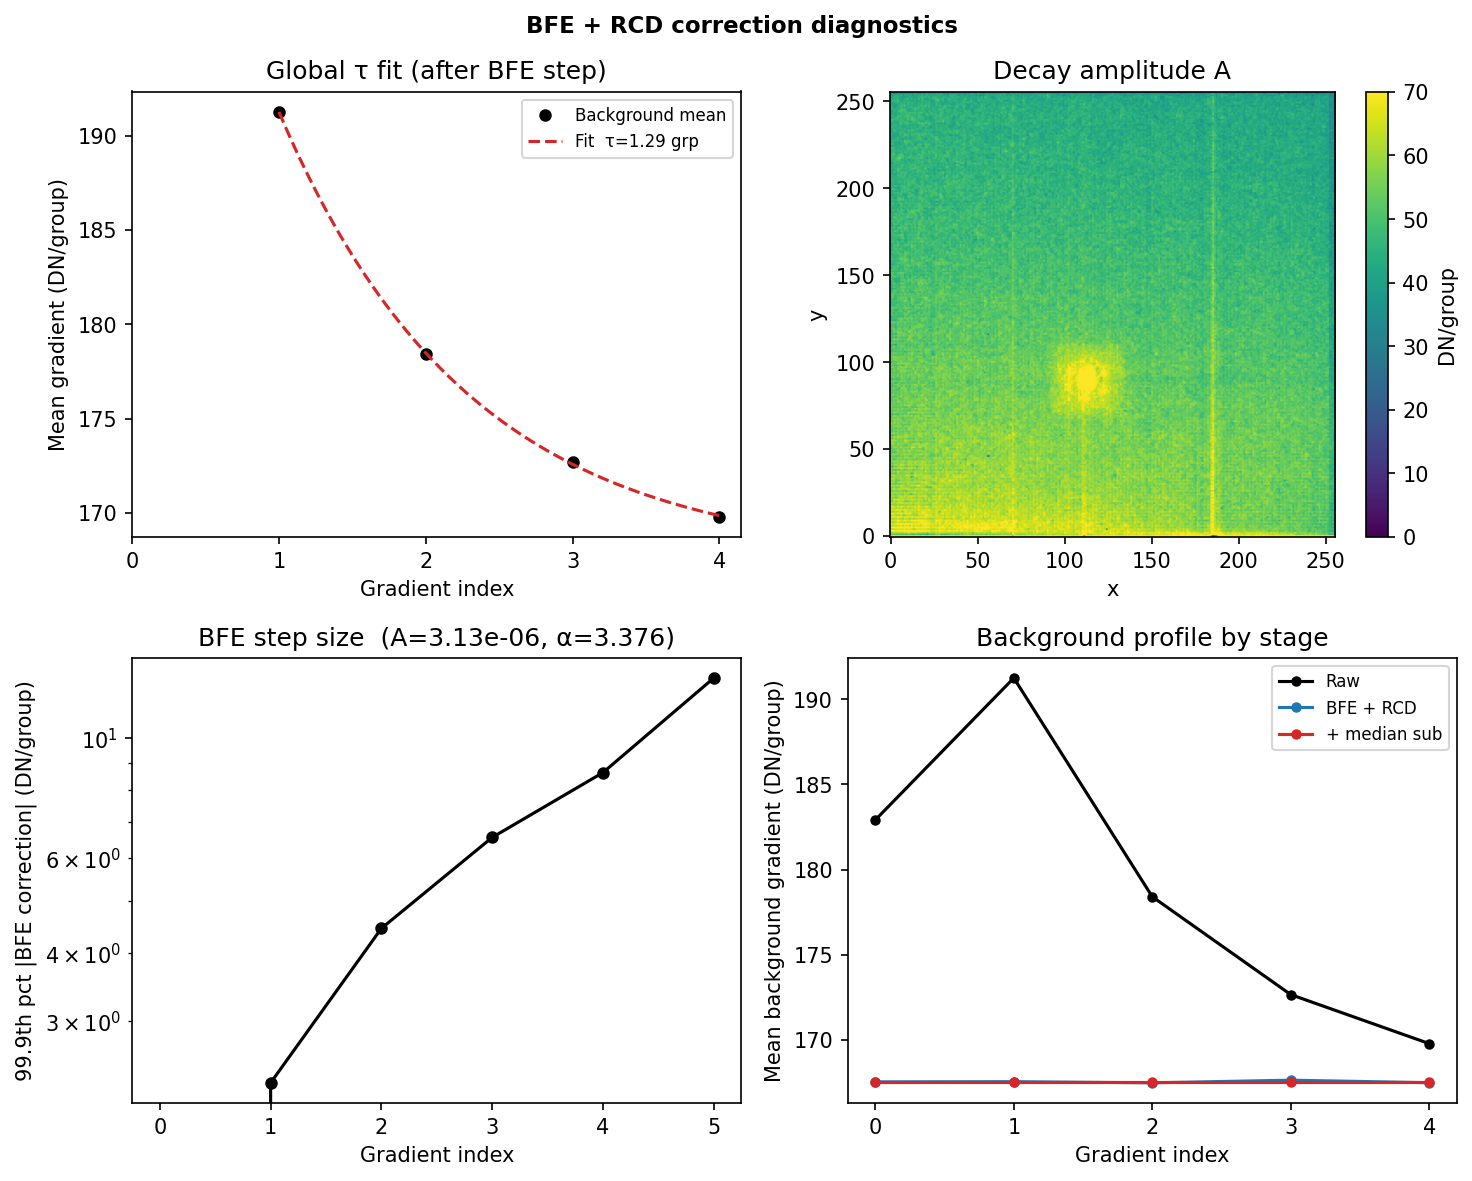
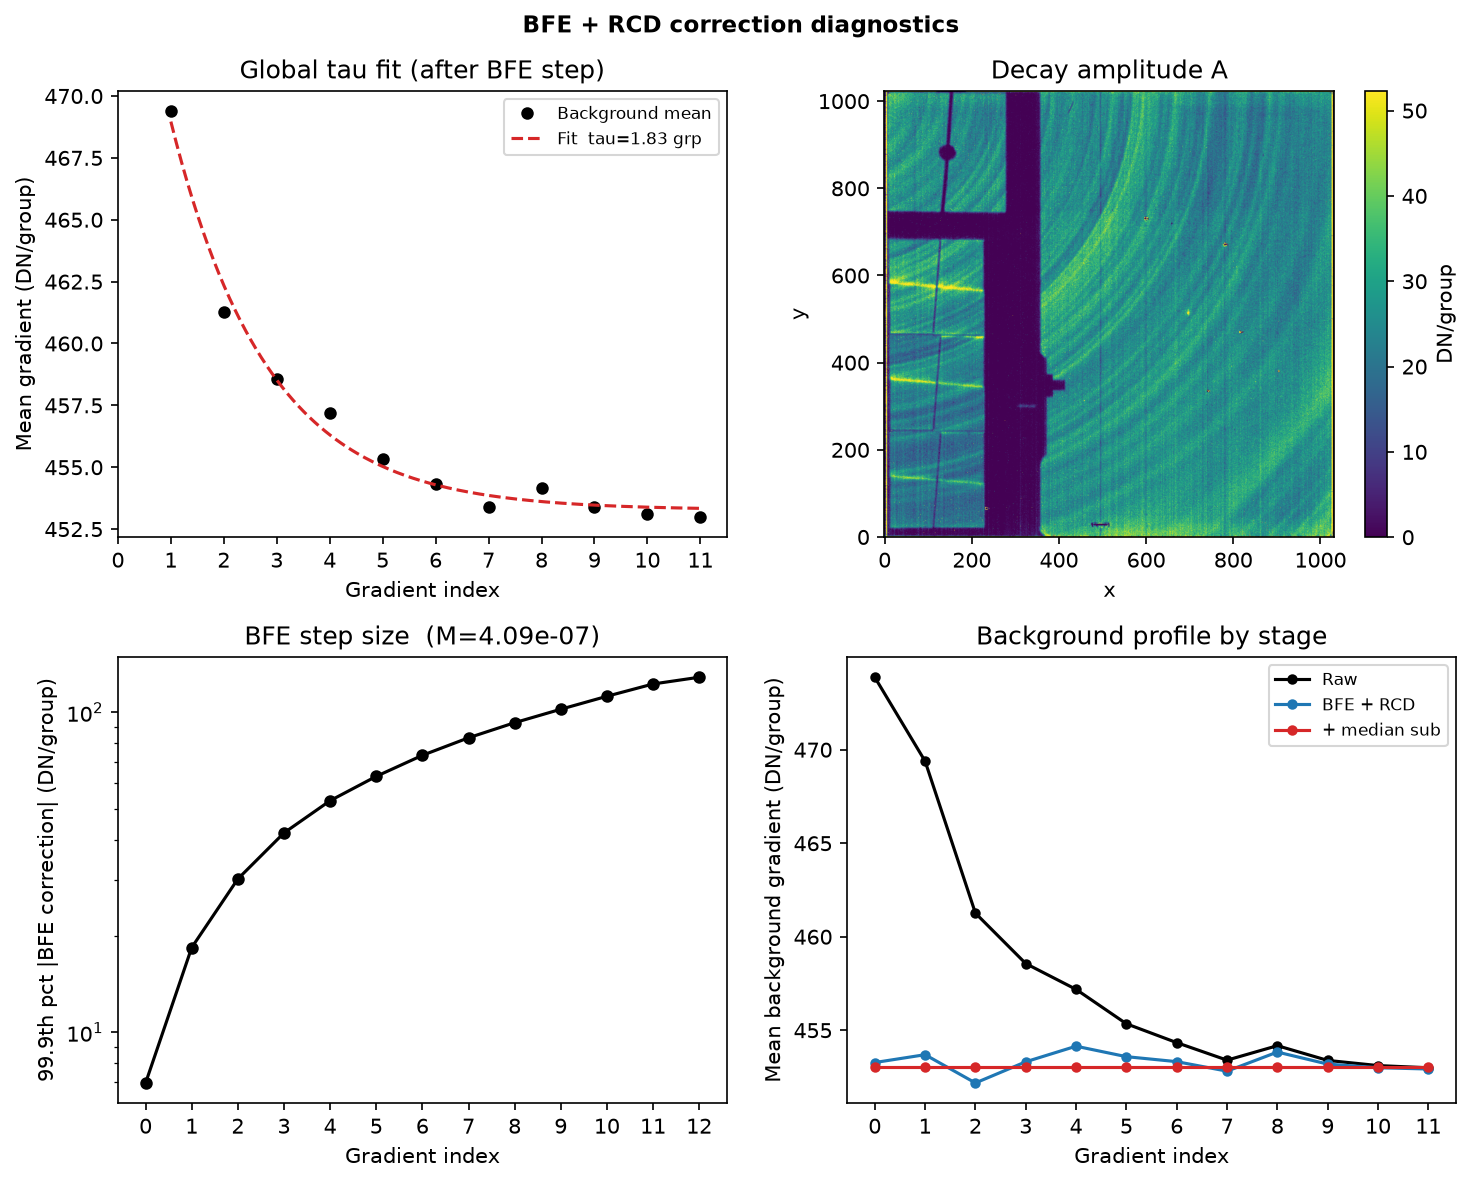
Update migration model defaults, background normalisation, and README
- Set calibrated defaults M=4.2e-7, thr=37.2 DN (average of Wolf 359
  ramp and TRAPPIST-1 ramp fits)
- Add fix_M / fix_thr parameters to lock migration params and only fit
  remaining free parameters (e.g. a_lin on uncal data)
- Replace annulus-median background with sigma-clipped stats in
  norm_diff (upper=2sigma, lower=5sigma) to eliminate bias from
  migration-broadened PSF wings
- Update README: migration forward model, uncal/a_lin workflow,
  calibrated defaults, validation table, updated diagnostic figures

diff --git a/rampdoctor/ramp_correction.py b/rampdoctor/ramp_correction.py
@@ -710,10 +710,11 @@ def _mig_invert(med_obs, Mx, My, thr, n_born=4):
     return true_grads
 
 
-def fit_migration_params(cube, M_init=1.0e-6, thr_init=50.0, bg_mask=None,
+def fit_migration_params(cube, M_init=4.2e-7, thr_init=37.2, bg_mask=None,
                          sci_mask=None, bfe_early_groups=None, bfe_late_groups=None,
                          ap_radius=5, cut=20, fit_r=None, verbose=False,
                          max_iter=6, M_tol=0.02, aniso=False,
+                         fix_M=None, fix_thr=None,
                          diagnostics=False, save_path=None):
     """Fit the charge-migration BFE parameters from the brightest source.
 
@@ -824,44 +825,71 @@ def fit_migration_params(cube, M_init=1.0e-6, thr_init=50.0, bg_mask=None,
 
     logM0, thr0 = np.log10(M_init), thr_init
     Mx_fit = My_fit = M_init
+    thr_fit = thr_init
     M_prev = None
+
+    # If M or thr are fixed, skip the iterative optimisation entirely
+    if fix_M is not None and fix_thr is not None:
+        Mx_fit = My_fit = float(fix_M)
+        thr_fit = float(fix_thr)
+        if verbose:
+            print(f'  M and thr fixed: M={Mx_fit:.4e}  thr={thr_fit:.1f} DN')
+        max_iter = 0
 
     for _it in range(max_iter):
         if aniso:
+            if fix_M is not None:
+                logMx0 = logMy0 = np.log10(float(fix_M))
+            else:
+                logMx0 = logMy0 = logM0
+            _thr0 = float(fix_thr) if fix_thr is not None else thr0
+
             def chi2(par):
                 logMx, logMy, thr = par
+                if fix_M is not None:
+                    logMx = logMy = np.log10(float(fix_M))
+                if fix_thr is not None:
+                    thr = float(fix_thr)
                 if not (-9 <= logMx <= -2 and -9 <= logMy <= -2 and 0 <= thr <= 5000):
                     return 1e30
                 d = model_diff(10**logMx, 10**logMy, thr, rate_c, Adec_c, delta_c)
                 if not np.all(np.isfinite(d)):
                     return 1e30
                 return float(np.sum((((d - obs) * w)[fitmask])**2))
-            x0 = [logM0, logM0, thr0]
+            x0 = [logMx0, logMy0, _thr0]
             res = _minimize(chi2, x0, method='Powell',
                             options={'xtol': 1e-4, 'ftol': 1e-7, 'maxiter': 2000})
-            Mx_fit = 10**res.x[0]
-            My_fit = 10**res.x[1]
-            thr_fit = max(0.0, res.x[2])
-            logM0 = (res.x[0] + res.x[1]) / 2
+            Mx_fit = float(fix_M) if fix_M is not None else 10**res.x[0]
+            My_fit = float(fix_M) if fix_M is not None else 10**res.x[1]
+            thr_fit = float(fix_thr) if fix_thr is not None else max(0.0, res.x[2])
+            logM0 = (np.log10(Mx_fit) + np.log10(My_fit)) / 2
             thr0 = thr_fit
             M_now = (Mx_fit + My_fit) / 2
             if verbose:
                 print(f'  [iter {_it}] Mx={Mx_fit:.4e}  My={My_fit:.4e}  '
                       f'thr={thr_fit:.1f} DN  chi2/n={res.fun/max(int(fitmask.sum())-3, 1):.3f}')
         else:
+            _logM0 = np.log10(float(fix_M)) if fix_M is not None else logM0
+            _thr0 = float(fix_thr) if fix_thr is not None else thr0
+
             def chi2(par):
                 logM, thr = par
+                if fix_M is not None:
+                    logM = np.log10(float(fix_M))
+                if fix_thr is not None:
+                    thr = float(fix_thr)
                 if not (-9 <= logM <= -2 and 0 <= thr <= 5000):
                     return 1e30
                 d = model_diff(10**logM, 10**logM, thr, rate_c, Adec_c, delta_c)
                 if not np.all(np.isfinite(d)):
                     return 1e30
                 return float(np.sum((((d - obs) * w)[fitmask])**2))
-            res = _minimize(chi2, [logM0, thr0], method='Powell',
+            res = _minimize(chi2, [_logM0, _thr0], method='Powell',
                             options={'xtol': 1e-4, 'ftol': 1e-7, 'maxiter': 1500})
-            Mx_fit = My_fit = 10**res.x[0]
-            thr_fit = max(0.0, res.x[1])
-            logM0, thr0 = res.x[0], thr_fit
+            Mx_fit = My_fit = float(fix_M) if fix_M is not None else 10**res.x[0]
+            thr_fit = float(fix_thr) if fix_thr is not None else max(0.0, res.x[1])
+            logM0 = np.log10(Mx_fit)
+            thr0 = thr_fit
             M_now = Mx_fit
             if verbose:
                 print(f'  [iter {_it}] M={Mx_fit:.4e}  thr={thr_fit:.1f} DN  '
@@ -948,13 +976,14 @@ def fit_migration_params(cube, M_init=1.0e-6, thr_init=50.0, bg_mask=None,
 
 
 def correct_bfe_rcd(cube, method='migration',
-                    M_mig=1.0e-6, M_mig_y=1, thr_mig=50.0,
+                    M_mig=4.2e-7, M_mig_y=1, thr_mig=37.2,
                     A_bfe=1.035e-6, alpha_bfe=3.43, b_bfe=-0.50, c_bfe=0.056,
                     bg_mask=None, late_groups=None, verbose=False,
                     fit_bfe=False, sci_mask=None,
                     bfe_early_groups=None, bfe_late_groups=None,
                     ap_radius=5, cut=20, fit_r=10,
                     star_x=None, star_y=None,
+                    fix_M=None, fix_thr=None,
                     diagnostics=False, save_path=None):
     """
     Joint BFE + reset-decay correction for MIRI ramp data.
@@ -1055,7 +1084,8 @@ def correct_bfe_rcd(cube, method='migration',
                 cube, M_init=M_mig, thr_init=thr_mig, bg_mask=bg_mask,
                 sci_mask=sci_mask, bfe_early_groups=bfe_early_groups,
                 bfe_late_groups=bfe_late_groups, ap_radius=ap_radius, cut=cut,
-                fit_r=fit_r, verbose=verbose, aniso=(M_mig_y is None))
+                fit_r=fit_r, verbose=verbose, aniso=(M_mig_y is None),
+                fix_M=fix_M, fix_thr=fix_thr)
             if Mx_fit is None:
                 if verbose:
                     print('No source meets brightness threshold — skipping BFE correction')

diff --git a/README.md b/README.md
@@ -11,15 +11,18 @@ fill, broadening the PSF over the course of an integration and biasing
 aperture photometry built from group differences. **Reset charge decay
 (RCD)** adds an exponentially decaying signal to the first few groups after
 each detector reset, imprinting a common ramp-shaped systematic on every
-integration. Both effects are fit directly from the science data — no
-reference files are required: the BFE amplitude is fit from the
-brighter-fatter signature of the brightest source in the field, and the
-decay timescale from background pixels. Applying the joint correction to a
-JWST MIRI imaging time series of EV Lac reduces the group-level lightcurve
-RMS from 2.48% to 0.15%. The method operates on `uncal` SCI cubes
-(`n_int, n_groups, ny, nx`) and is developed and validated on MIRI, but the
-approach applies to any instrument with non-destructive up-the-ramp
-sampling.
+integration.
+
+Both effects are fit directly from the science data — no reference files are
+required. The BFE amplitude and threshold are fit from the brighter-fatter
+signature of the brightest source in the field; the decay timescale is fit
+from background pixels. On JWST MIRI time-series observations the joint
+correction reduces group-level lightcurve RMS by 3–10×.
+
+The package operates on raw (`uncal`) or pipeline-processed (`ramp`) SCI
+cubes of shape `(n_int, n_groups, ny, nx)`. It is developed and validated on
+MIRI but the approach applies to any instrument with non-destructive
+up-the-ramp sampling.
 
 ## Installation
 
@@ -27,59 +30,92 @@ sampling.
 pip install -e .
 ```
 
-## Usage
+## Quick start
+
+```python
+from rampdoctor.ramp_correction import correct_bfe_rcd
+
+# Pipeline-processed (ramp.fits) data — linearity already applied
+cube_cor = correct_bfe_rcd(cube, fit_bfe=True, verbose=True)
+
+# Raw uncal data — jointly fit detector linearity with BFE parameters
+cube_cor = correct_bfe_rcd(cube, fit_bfe=True, fit_a_lin=True, verbose=True)
+```
+
+Pass `diagnostics=True` and a `save_path` to produce diagnostic figures
+(PSF-difference fit quality, migration model residual, pixel ramp profiles,
+and background gradient profiles at each correction stage).
+
+Or use the object-oriented interface:
 
 ```python
 from rampdoctor import RampDoctor
 
 rd = RampDoctor(file='jw_mirimage_uncal.fits', verbose=True)
-rd.fit_bfe()              # fit A_bfe from the brightest source (optional)
-cube_cor = rd.correct()   # joint BFE + RCD correction
-rd.save('corrected_uncal.fits')
-```
-
-Pass `diagnostics=True` to `fit_bfe()` or `correct()` to save diagnostic
-figures (PSF-difference fit quality, global tau fit, decay amplitude map,
-BFE step size, and background profiles by correction stage). Requires
-matplotlib (`pip install rampdoctor[plot]`).
-
-Or with an array already in memory:
-
-```python
-rd = RampDoctor(cube=cube, bg_mask=bg_mask)
+rd.fit_bfe()
 cube_cor = rd.correct()
+rd.save('corrected.fits')
 ```
-
-The underlying functions (`correct_bfe_rcd`, `fit_bfe_params`,
-`correct_reset_decay`, `build_correction_map`, `correct_ramp`) are also
-importable directly.
 
 ## Method
 
-The joint correction applies three sequential steps to the group-to-group
-gradients:
+The correction applies two sequential steps to the group-to-group gradients:
 
-1. **Causal BFE inversion** — iterative, flux-conserving inversion of the
-   pixel-area forward model `grad_obs = true_grad (1 - A K⊛Q)`, where `Q` is
-   the accumulated charge and `K` a power-law kernel.
-2. **Parametric RCD subtraction** — global decay timescale fitted from
-   background pixels; per-pixel amplitude, rate, and first-frame offset via
-   linear least squares.
-3. **Non-parametric residual removal** — per-pixel, per-group median
-   subtraction with the flat rate restored from late groups.
+**Step 1 — BFE inversion (charge-migration model)**
+
+The forward model per group is:
+
+```
+dQ = F_true / poly'(Q) + A_crd * exp(-g / tau)
+Q  = _mig_group(Q + dQ, M, threshold)
+```
+
+where `F_true` is the true photon flux rate, `poly'(Q) = 1 + 2aQ` is the
+detector linearity derivative (fitted jointly on uncal data), `A_crd` is the
+per-pixel RCD amplitude, `M` is the charge-migration strength, and
+`threshold` is an activation level below which migration is negligible.
+Migration-free gradients are recovered by Born iteration on `F_true`.
+Calibrated defaults (`M = 4.2×10⁻⁷`, `threshold = 37.2 DN`) are derived
+from fits to linearised MIRI ramp data across two targets.
+
+**Step 2 — RCD subtraction**
+
+The global decay timescale `tau` is fitted from background pixels (groups
+≥ 1). Per-pixel amplitude `A_crd`, flat rate, and first-frame offset are
+then fitted via linear least squares. The decay `A_crd · exp(−g/τ)` is
+subtracted from every gradient of every integration.
+
+**Optional: BFE parameter fitting**
+
+When `fit_bfe=True`, `fit_migration_params` detects the brightest source via
+SEP and fits `M` and `threshold` (optionally also the linearity coefficient
+`a`) by minimising the residual between the observed and modelled
+late−early PSF difference image. An iterative RCD re-fit prevents the decay
+and migration parameters from absorbing each other.
+
+## Validation
+
+| Target | Data | M (fit) | Threshold | RMS before | RMS after |
+|---|---|---|---|---|---|
+| Wolf 359 | ramp.fits | 4.32×10⁻⁷ | 37.8 DN | — | — |
+| TRAPPIST-1 | ramp.fits | 4.09×10⁻⁷ | 36.6 DN | 0.80% | 0.22% |
+
+The consistent `M` and threshold across two independent MIRI targets
+(observed in different modes) support their use as instrument-level
+defaults. On raw (`uncal`) data, jointly fitting the linearity coefficient
+`a` alongside `M` reduces chi²/N from 11.6 to 5.5 for Wolf 359.
 
 ## Example diagnostics
 
-BFE fit on a JWST MIRI observation of EV Lac (`rd.fit_bfe(diagnostics=True)`):
-the observed late−early PSF difference, the best-fit forward model, the
-residual, and the radial profiles.
+BFE fit on a JWST MIRI observation (`fit_bfe=True, diagnostics=True`):
+observed late−early PSF difference, best-fit migration model, residual,
+and radial profiles.
 
 ![BFE fit diagnostics](figs/bfe_fit_diagnostics.png)
 
-Correction diagnostics (`rd.correct(diagnostics=True)`): the global decay
-timescale fit, the per-pixel decay amplitude map, the size of the BFE
-correction per group, and the background gradient profile at each stage of
-the correction.
+Correction diagnostics (`diagnostics=True`): the global decay timescale
+fit, per-pixel decay amplitude map, BFE correction per group, and background
+gradient profiles at each stage.
 
 ![Correction diagnostics](figs/bfe_rcd_diagnostics.png)
 
